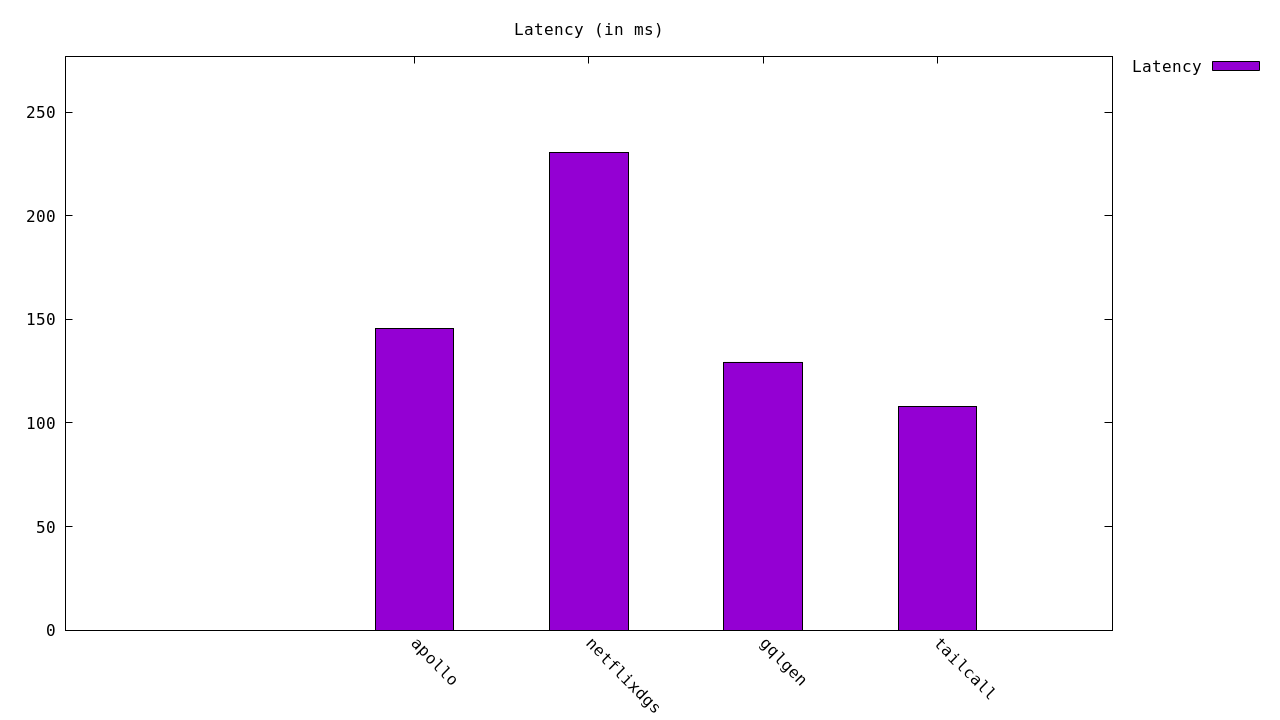
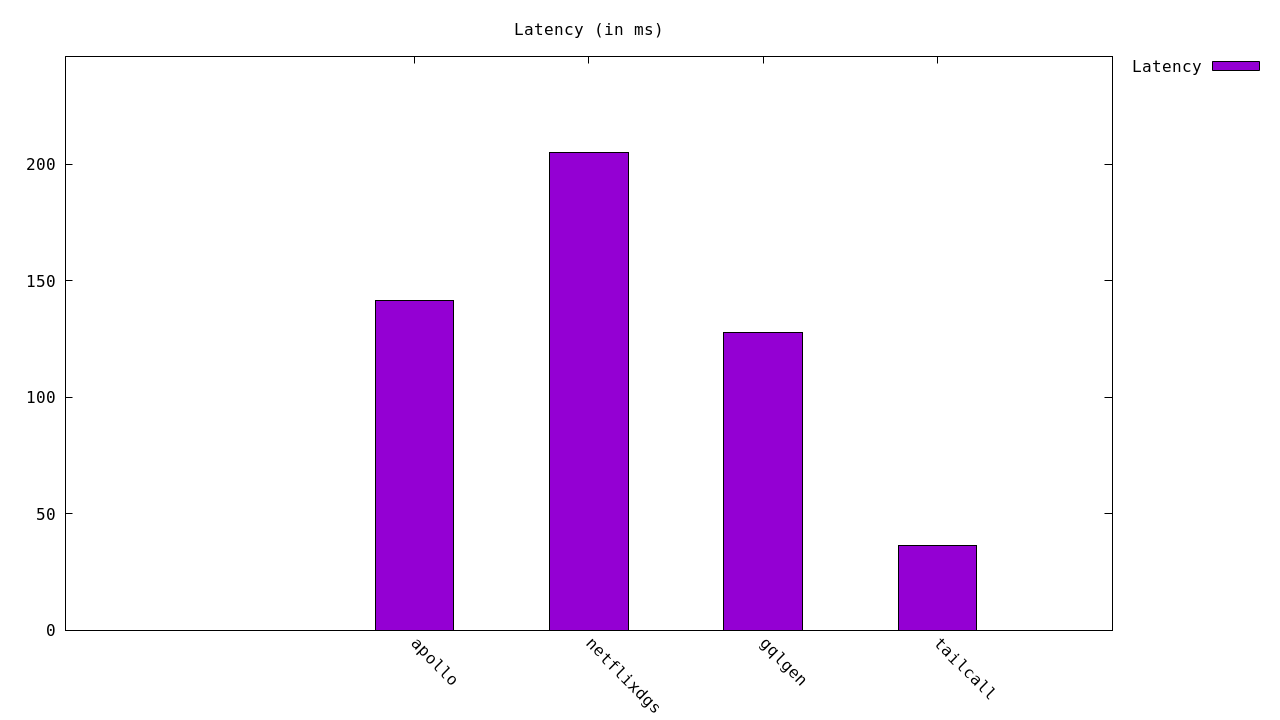
Updated performance results in README.md

diff --git a/README.md b/README.md
@@ -44,10 +44,10 @@ Get started with the benchmarks:
 <!-- PERFORMANCE_RESULTS_START -->
 | Server | Requests/sec | Latency (ms) |
 |--------|--------------|--------------|
-| apollo | 707.007 | 145.483 |
-| netflixdgs | 467.623 | 230.67 |
-| gqlgen | 839.063 | 129.387 |
-| tailcall | 1484.52 | 108.02 |
+| apollo | 725.187 | 141.443 |
+| netflixdgs | 553.247 | 205.13 |
+| gqlgen | 852.613 | 127.687 |
+| tailcall | 2752.37 | 36.39 |
 <!-- PERFORMANCE_RESULTS_END -->
 
 ### Throughput (Higher is better)
